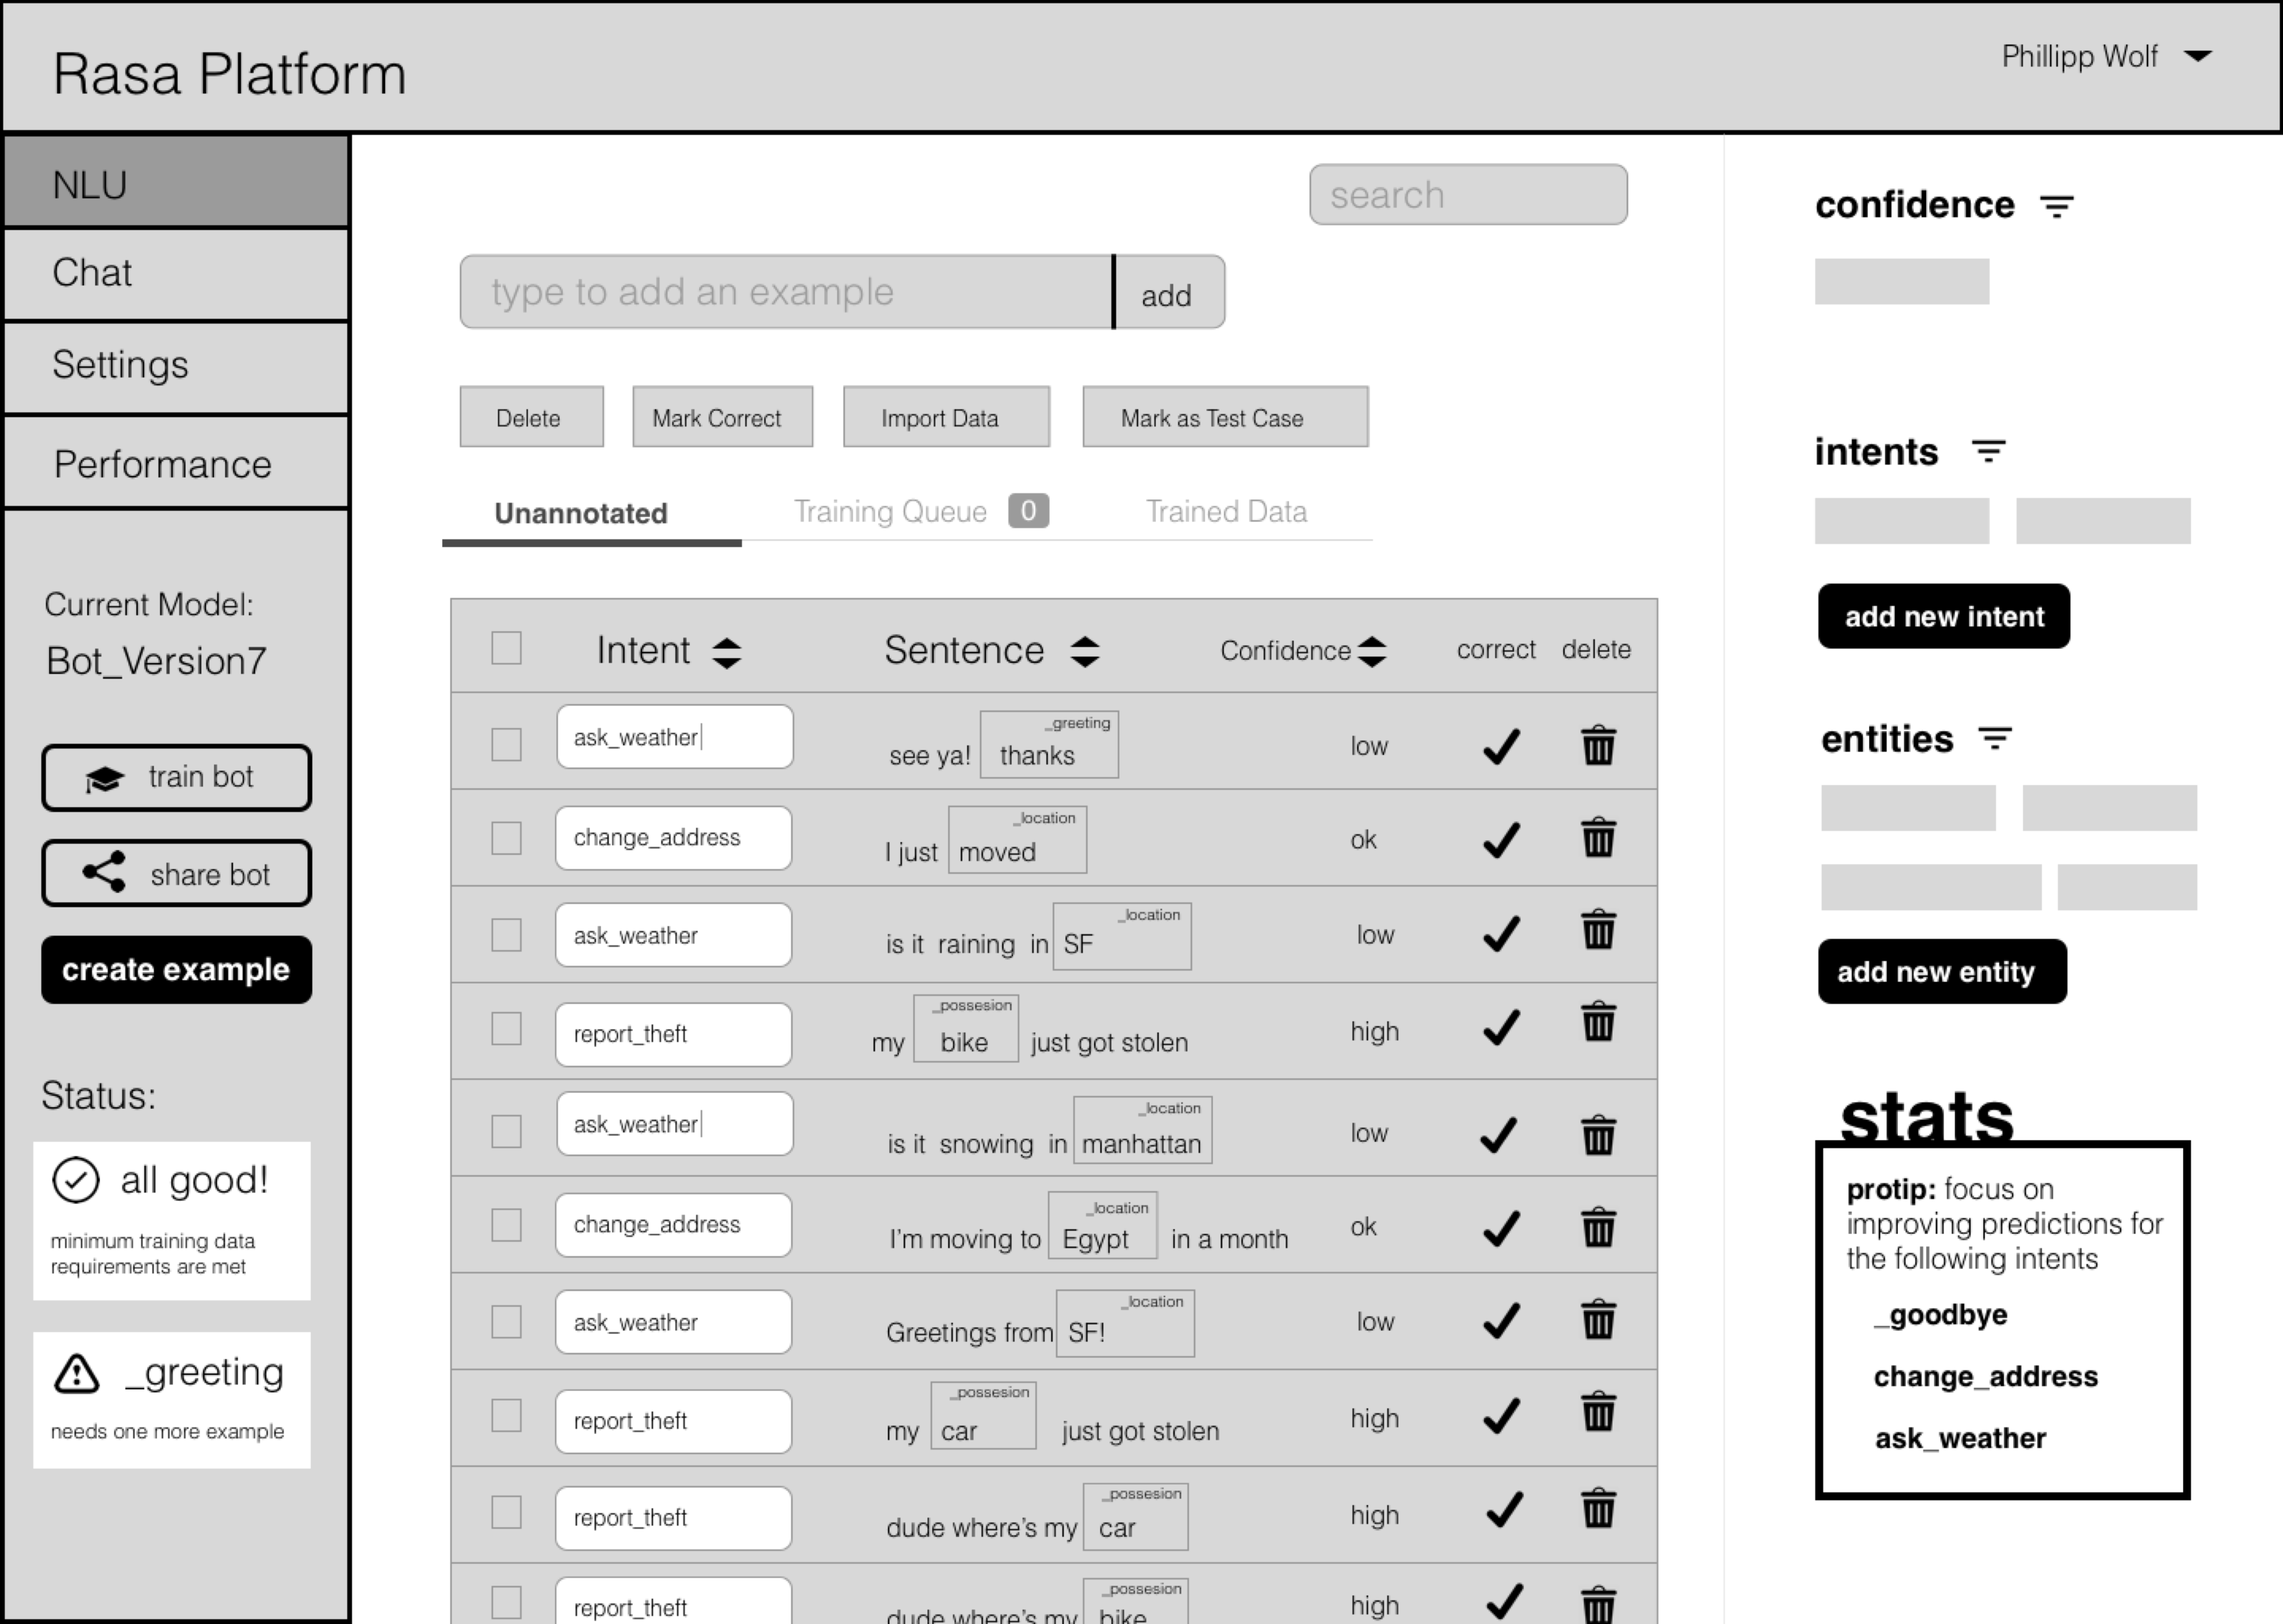
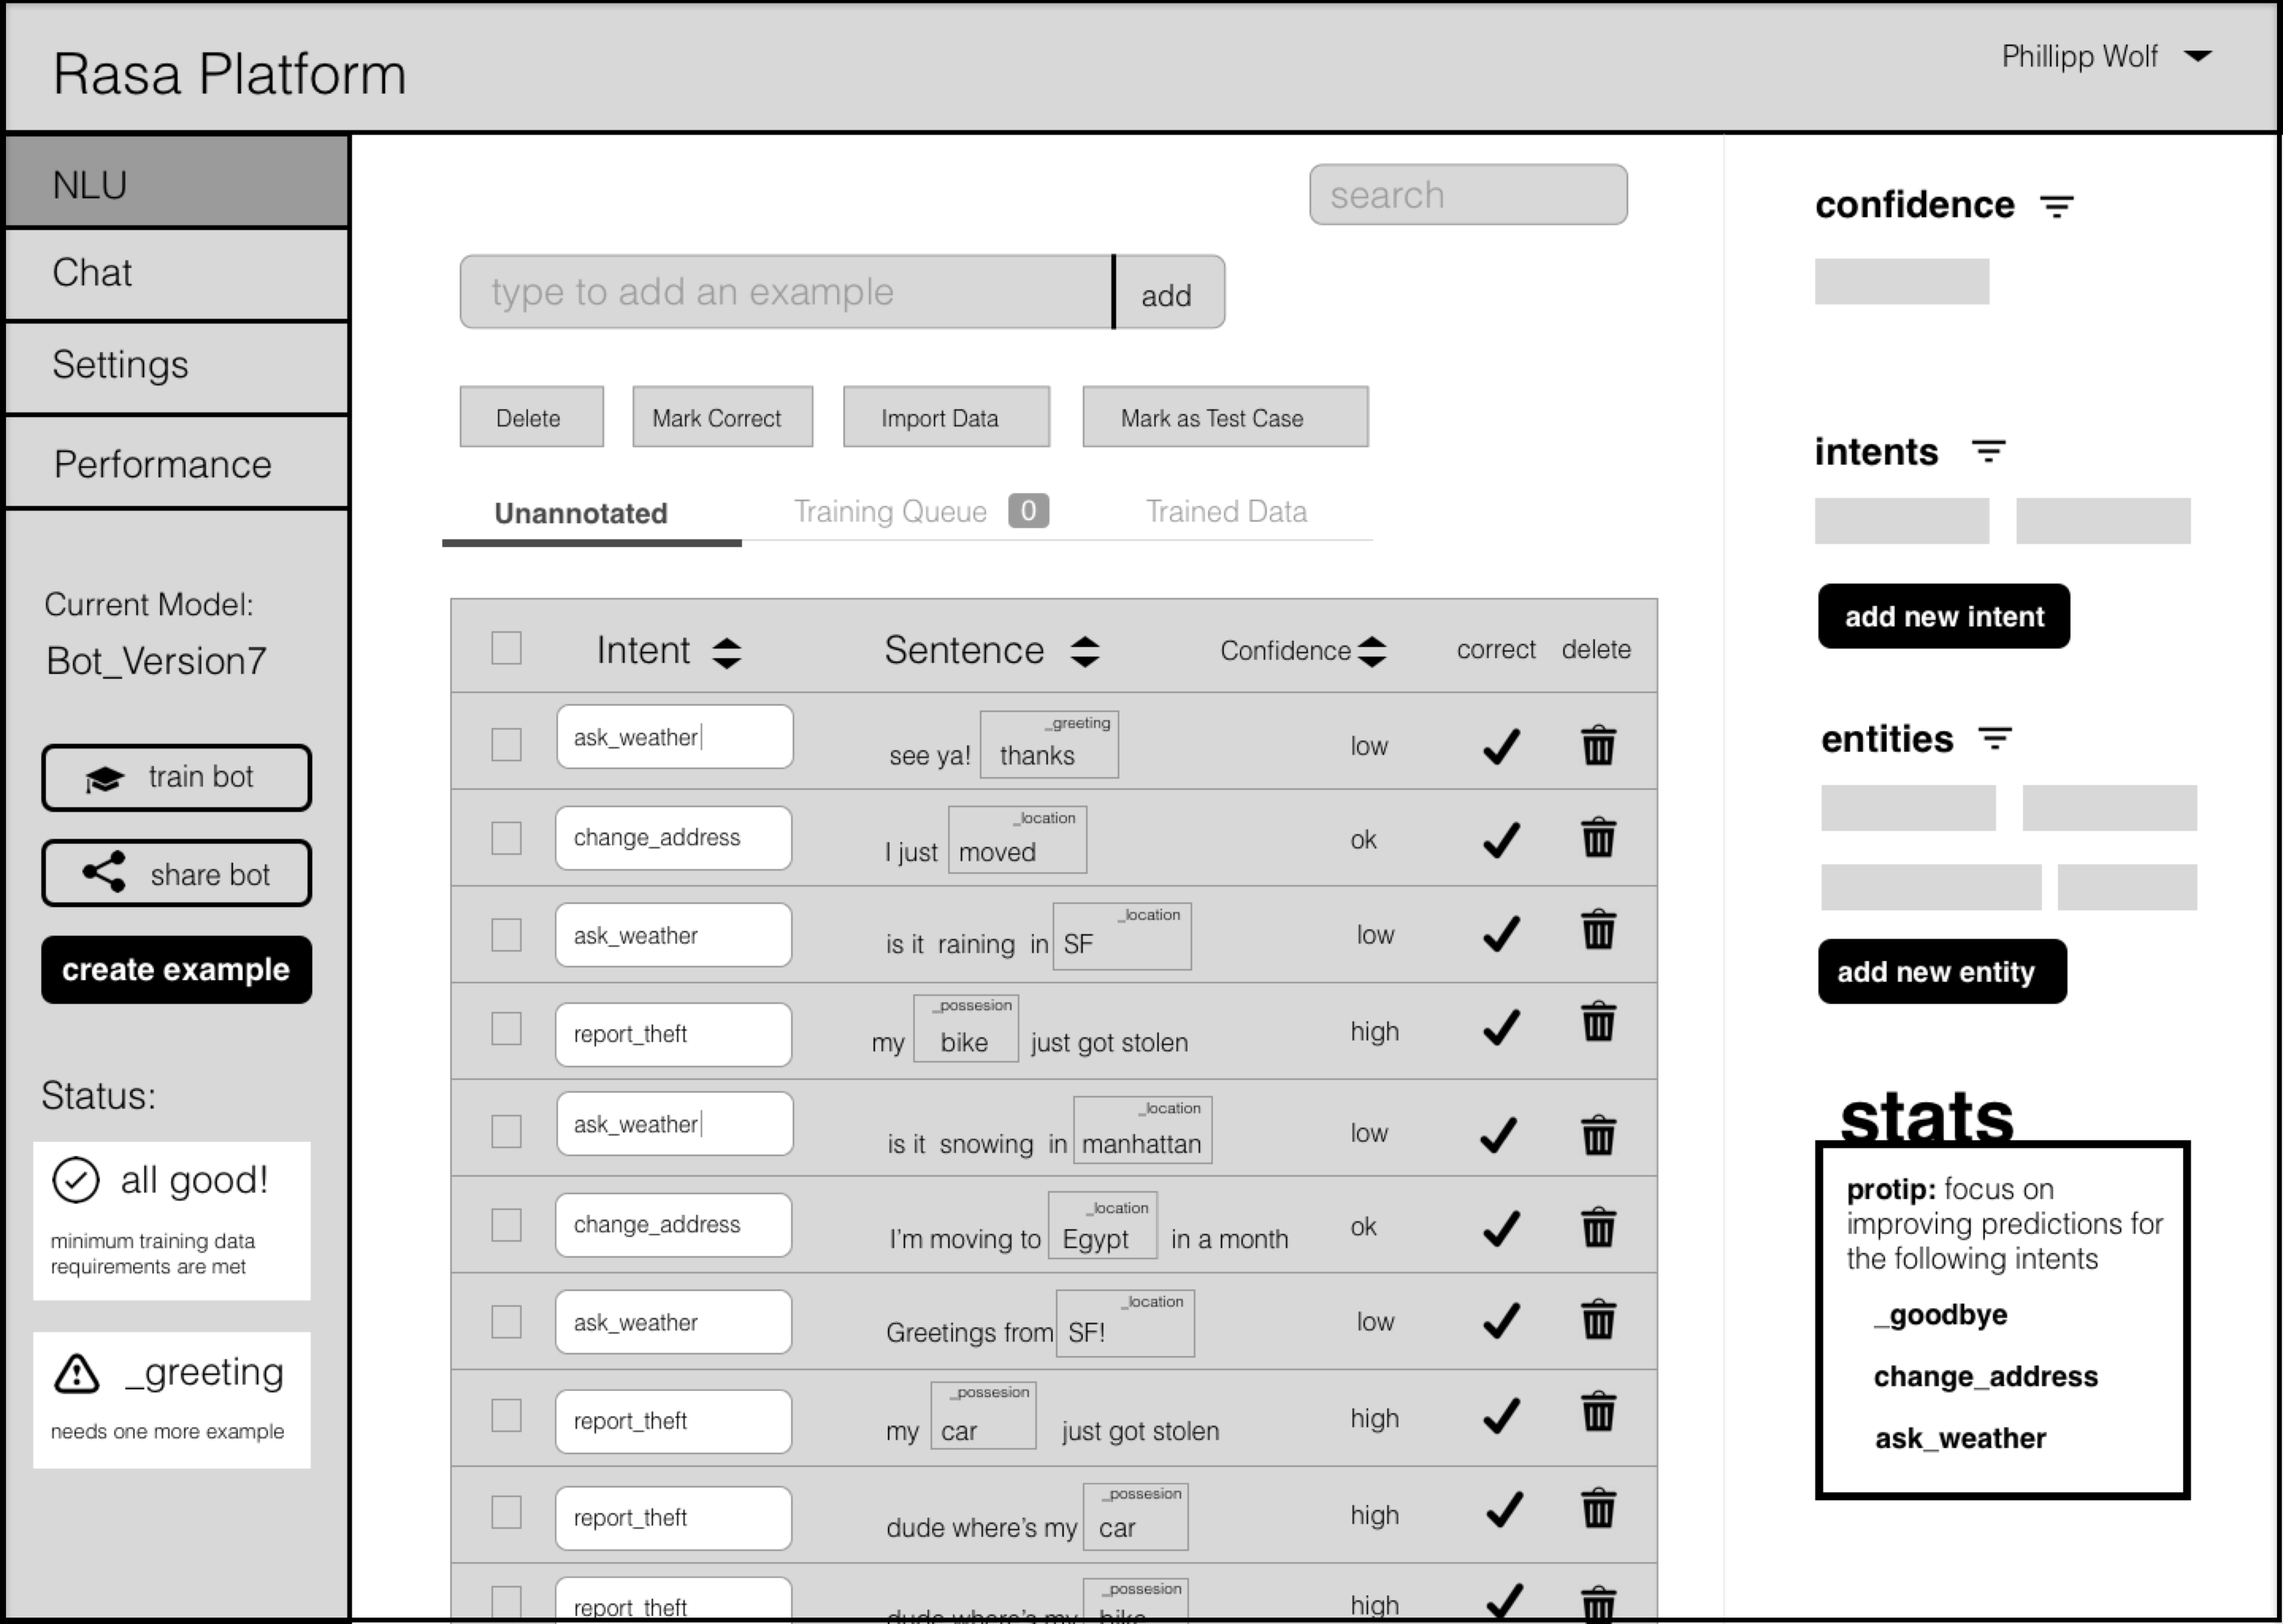
update painpoints image and add black border to wireframe image

Changed region(s): [[0.1556, 0.0, 1.0, 1.0]]

diff --git a/rasa.html b/rasa.html
@@ -110,7 +110,7 @@
           
           <h2 class="col-xs-12"> Identifying Pain Points </h2>
 
-          <img src="img/rasa/painpoints.png" class="img-responsive col-xs-12" >
+          <img src="img/painpoints.svg" class="img-responsive col-xs-12" >
 
           <h2 class="col-xs-12"> Reccomended User Journey </h2>
 
